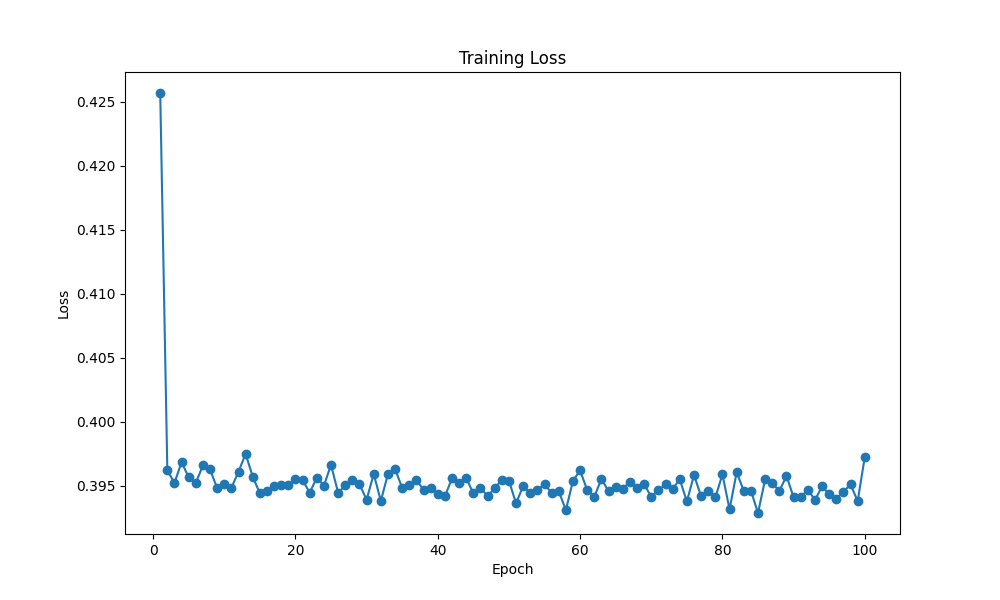
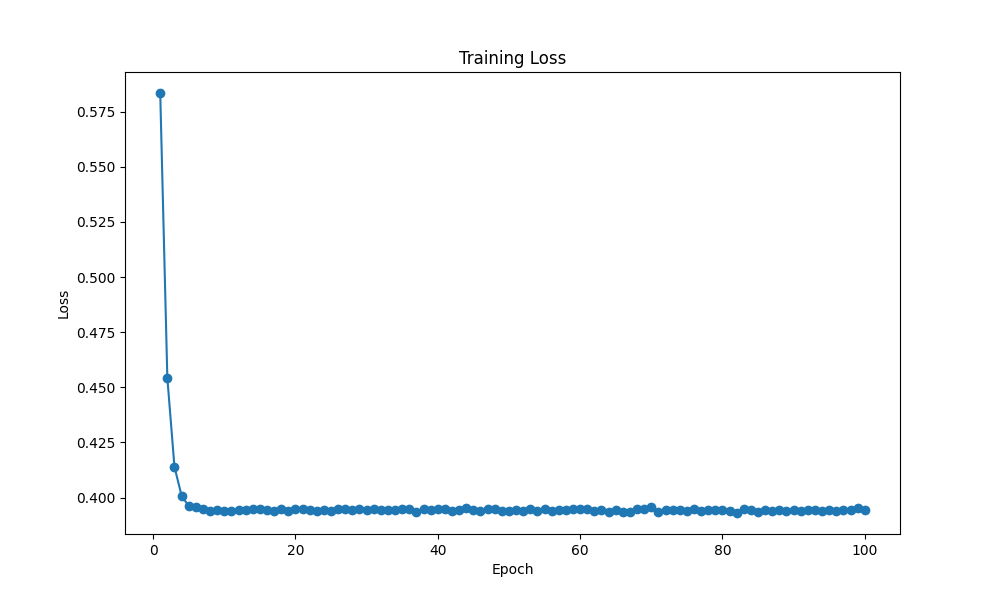
lstm updates

diff --git a/LSTM/lstm.py b/LSTM/lstm.py
@@ -57,7 +57,9 @@ if __name__ == "__main__":
     model = LSTMModel(input_dim=1, hidden_dim=hidden_size, layer_dim=2, output_dim=output_size).to("cuda")
 
     criterion = nn.CrossEntropyLoss()
+    # both produce eh results. same as using RNN
     optimizer = optim.Adam(model.parameters(), lr=0.001)
+    optimizer = optim.SGD(model.parameters(), lr=0.01)
 
     # Training loop
     num_epochs = 100

diff --git a/README.md b/README.md
@@ -18,4 +18,4 @@ Conclusion: The upper capabilities of RNNs are reached easily.
 ## LSTM
 
 ### `lstm.py`
-Implemented an LSTM with 2 fc connected layers at thje end. Didn't achieve any results better than the RNN implementation.
+Implemented an LSTM with 2 fc connected layers at thje end. Didn't achieve any results better than the RNN implementation. Tried a few different parameters. Reached the same maximum accuracy of 86.64%.
